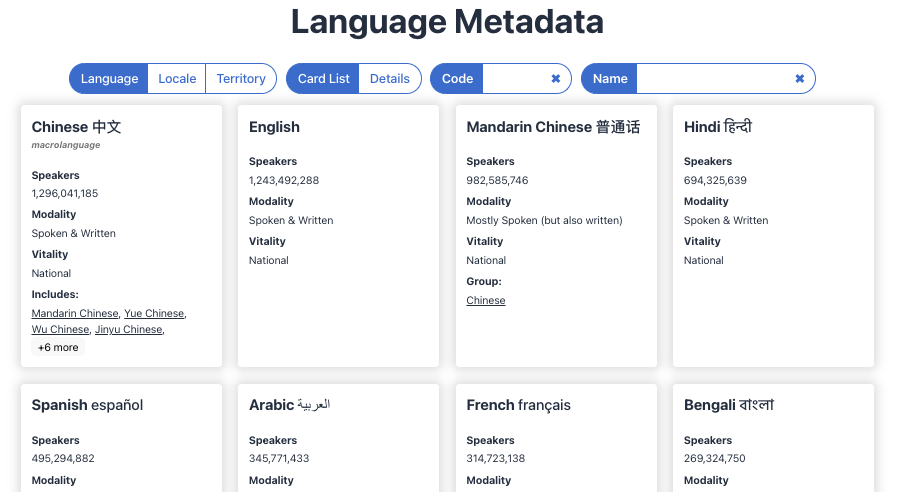
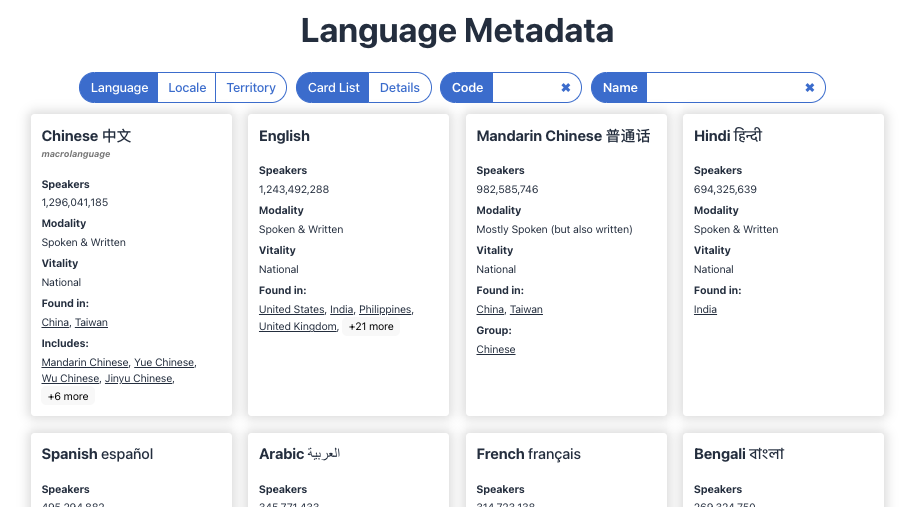
Add locales: part 5: Link to locales from languages & territories

diff --git a/src/views/language/LanguageDetails.tsx b/src/views/language/LanguageDetails.tsx
@@ -3,7 +3,7 @@ import React from 'react';
 import { usePageParams } from '../../controls/PageParamsContext';
 import { useDataContext } from '../../dataloading/DataContext';
 import CommaSeparated from '../../generic/CommaSeparated';
-import { separateTitleAndSubtitle } from '../../utils/stringUtils';
+import HoverableLocaleName from '../locale/HoverableLocaleName';
 
 import HoverableLanguageName from './HoverableLanguageName';
 
@@ -33,7 +33,8 @@ const LanguageDetails: React.FC = () => {
   const {
     glottocode,
     medium,
-    nameDisplay,
+    nameDisplayTitle,
+    nameDisplaySubtitle,
     nameEndonym,
     populationCited,
     script,
@@ -43,14 +44,14 @@ const LanguageDetails: React.FC = () => {
     vitalityEth2025,
     parentLanguage,
     childLanguages,
+    locales,
   } = lang;
-  const [title, subtitle] = separateTitleAndSubtitle(nameDisplay);
 
   return (
     <div className="Details">
       <h2>
-        <strong>{title}</strong> {title != nameEndonym && nameEndonym}
-        {subtitle != null && <div className="subtitle">{subtitle} </div>}
+        <strong>{nameDisplayTitle}</strong> {nameDisplayTitle != nameEndonym && nameEndonym}
+        {nameDisplaySubtitle != null && <div className="subtitle">{nameDisplaySubtitle} </div>}
       </h2>
       <div>
         <h3>Attributes</h3>
@@ -92,6 +93,16 @@ const LanguageDetails: React.FC = () => {
       </div>
       <div>
         <h3>Connections</h3>
+        {locales.length > 0 && (
+          <div>
+            <label>Found in:</label>
+            <CommaSeparated>
+              {Object.values(locales).map((locale) => (
+                <HoverableLocaleName key={locale.code} labelSource="territory" locale={locale} />
+              ))}
+            </CommaSeparated>
+          </div>
+        )}
         {parentLanguage != null && (
           <div>
             <label>Group:</label>
@@ -108,7 +119,7 @@ const LanguageDetails: React.FC = () => {
             </CommaSeparated>
           </div>
         )}
-        {parentLanguage == null && childLanguages.length === 0 && (
+        {locales.length === 0 && parentLanguage == null && childLanguages.length === 0 && (
           <div>There is currently no data available to show connections with other languages.</div>
         )}
       </div>

diff --git a/src/views/language/LanguageCard.tsx b/src/views/language/LanguageCard.tsx
@@ -4,7 +4,7 @@ import { usePageParams } from '../../controls/PageParamsContext';
 import { ViewType } from '../../controls/PageParamTypes';
 import { LanguageData } from '../../DataTypes';
 import CommaSeparated from '../../generic/CommaSeparated';
-import { separateTitleAndSubtitle } from '../../utils/stringUtils';
+import HoverableLocaleName from '../locale/HoverableLocaleName';
 
 import HoverableLanguageName from './HoverableLanguageName';
 
@@ -18,21 +18,22 @@ const LanguageCard: React.FC<Props> = ({ lang, includeRelations }) => {
   const {
     vitalityEth2013,
     medium,
+    nameDisplayTitle,
+    nameDisplaySubtitle,
     populationCited,
-    nameDisplay,
     nameEndonym,
     parentLanguage,
     childLanguages,
+    locales,
   } = lang;
-  const [title, subtitle] = separateTitleAndSubtitle(nameDisplay);
 
   return (
     <div>
       <h3>
         <a onClick={() => updatePageParams({ code: lang.code, viewType: ViewType.Details })}>
-          <strong>{title}</strong> {title != nameEndonym && nameEndonym}
+          <strong>{nameDisplayTitle}</strong> {nameDisplayTitle != nameEndonym && nameEndonym}
         </a>
-        {subtitle != null && <div className="subtitle">{subtitle}</div>}
+        {nameDisplaySubtitle != null && <div className="subtitle">{nameDisplaySubtitle}</div>}
       </h3>
       <div>
         <h4>Speakers</h4>
@@ -47,6 +48,16 @@ const LanguageCard: React.FC<Props> = ({ lang, includeRelations }) => {
         {vitalityEth2013}
       </div>
 
+      {includeRelations && locales.length > 0 && (
+        <div>
+          <h4>Found in:</h4>
+          <CommaSeparated>
+            {Object.values(locales).map((locale) => (
+              <HoverableLocaleName key={locale.code} labelSource="territory" locale={locale} />
+            ))}
+          </CommaSeparated>
+        </div>
+      )}
       {includeRelations && parentLanguage != null && (
         <div>
           <h4>Group:</h4>

diff --git a/src/views/territory/TerritoryCard.tsx b/src/views/territory/TerritoryCard.tsx
@@ -3,6 +3,8 @@ import React from 'react';
 import { usePageParams } from '../../controls/PageParamsContext';
 import { Dimension, ViewType } from '../../controls/PageParamTypes';
 import { TerritoryData } from '../../DataTypes';
+import CommaSeparated from '../../generic/CommaSeparated';
+import HoverableLocaleName from '../locale/HoverableLocaleName';
 
 import HoverableTerritoryName from './HoverableTerritoryName';
 
@@ -11,7 +13,7 @@ interface Props {
 }
 
 const TerritoryCard: React.FC<Props> = ({ territory }) => {
-  const { nameDisplay, population, code, sovereign, territoryType } = territory;
+  const { nameDisplay, population, code, sovereign, territoryType, locales } = territory;
   const { updatePageParams } = usePageParams();
 
   return (
@@ -30,6 +32,17 @@ const TerritoryCard: React.FC<Props> = ({ territory }) => {
         <h4>Population</h4>
         {population.toLocaleString()}
       </div>
+
+      {locales.length > 0 && (
+        <div>
+          <h4>Languages:</h4>
+          <CommaSeparated>
+            {Object.values(locales).map((locale) => (
+              <HoverableLocaleName key={locale.code} labelSource="language" locale={locale} />
+            ))}
+          </CommaSeparated>
+        </div>
+      )}
 
       {sovereign != null && (
         <div>

diff --git a/src/views/territory/TerritoryDetails.tsx b/src/views/territory/TerritoryDetails.tsx
@@ -3,6 +3,7 @@ import React from 'react';
 import { usePageParams } from '../../controls/PageParamsContext';
 import { useDataContext } from '../../dataloading/DataContext';
 import CommaSeparated from '../../generic/CommaSeparated';
+import HoverableLocaleName from '../locale/HoverableLocaleName';
 
 import HoverableTerritoryName from './HoverableTerritoryName';
 
@@ -40,6 +41,7 @@ const TerritoryDetails: React.FC = () => {
     regionContainsTerritories,
     sovereign,
     territoryType,
+    locales,
   } = territory;
 
   return (
@@ -70,6 +72,17 @@ const TerritoryDetails: React.FC = () => {
 
       <div>
         <h3>Connections</h3>
+        {locales.length > 0 && (
+          <div>
+            <label>Languages:</label>
+            <CommaSeparated>
+              {Object.values(locales).map((locale) => (
+                <HoverableLocaleName key={locale.code} labelSource="language" locale={locale} />
+              ))}
+            </CommaSeparated>
+          </div>
+        )}
+
         {parentUNRegion != null && (
           <div>
             <label>In UN region:</label>

diff --git a/src/views/locale/HoverableLocaleName.tsx b/src/views/locale/HoverableLocaleName.tsx
@@ -9,11 +9,27 @@ import LocaleCard from './LocaleCard';
 
 type Props = {
   locale: LocaleData;
+  labelSource?: 'code' | 'territory' | 'language';
   format?: 'text' | 'button';
 };
 
-const HoverableLocaleName: React.FC<Props> = ({ locale, format = 'text' }) => {
+const HoverableLocaleName: React.FC<Props> = ({
+  locale,
+  labelSource = 'code',
+  format = 'text',
+}) => {
   const { updatePageParams } = usePageParams();
+  let label = locale.code;
+  switch (labelSource) {
+    case 'language':
+      label = locale.language?.nameDisplayTitle ?? locale.languageCode;
+      break;
+    case 'territory':
+      label = locale.territory?.nameDisplay ?? locale.territoryCode;
+      break;
+    case 'code':
+    // base case
+  }
 
   return (
     <Hoverable
@@ -26,7 +42,7 @@ const HoverableLocaleName: React.FC<Props> = ({ locale, format = 'text' }) => {
         })
       }
     >
-      {format === 'text' ? locale.code : <button>{locale.code}</button>}
+      {format === 'text' ? label : <button>{label}</button>}
     </Hoverable>
   );
 };

diff --git a/src/views/language/HoverableLanguageName.tsx b/src/views/language/HoverableLanguageName.tsx
@@ -4,7 +4,6 @@ import { usePageParams } from '../../controls/PageParamsContext';
 import { Dimension, ViewType } from '../../controls/PageParamTypes';
 import { LanguageData } from '../../DataTypes';
 import Hoverable from '../../generic/Hoverable';
-import { separateTitleAndSubtitle } from '../../utils/stringUtils';
 
 import LanguageCard from './LanguageCard';
 
@@ -15,8 +14,6 @@ type Props = {
 
 const HoverableLanguageName: React.FC<Props> = ({ lang, format = 'text' }) => {
   const { updatePageParams } = usePageParams();
-  // Remove parentheses from the name (the contains can be seen in the subtitle of the tooltip)
-  const [title] = separateTitleAndSubtitle(lang.nameDisplay);
 
   return (
     <Hoverable
@@ -29,7 +26,7 @@ const HoverableLanguageName: React.FC<Props> = ({ lang, format = 'text' }) => {
         })
       }
     >
-      {format === 'text' ? title : <button>{title}</button>}
+      {format === 'text' ? lang.nameDisplayTitle : <button>{lang.nameDisplayTitle}</button>}
     </Hoverable>
   );
 };

diff --git a/src/views/locale/LocaleStrings.tsx b/src/views/locale/LocaleStrings.tsx
@@ -1,10 +1,7 @@
 import { LocaleData, OfficialStatus, PopulationSourceCategory } from '../../DataTypes';
-import { separateTitleAndSubtitle } from '../../utils/stringUtils';
 
 export function getLocaleName(locale: LocaleData): string {
-  const languageNameFull = locale.language?.nameDisplay ?? locale.languageCode;
-  const [languageName] = separateTitleAndSubtitle(languageNameFull); // throw out subtitles
-
+  const languageName = locale.language?.nameDisplayTitle ?? locale.languageCode;
   const territoryName = locale.territory?.nameDisplay ?? locale.territoryCode;
   const scriptName = locale.explicitScriptCode != '' ? locale.explicitScriptCode : null;
   const variantName = locale.variantTag != '' ? locale.variantTag : null;

diff --git a/src/dataloading/DataParsing.tsx b/src/dataloading/DataParsing.tsx
@@ -6,13 +6,19 @@ import {
   TerritoryData,
   TerritoryType,
 } from '../DataTypes';
+import { separateTitleAndSubtitle } from '../utils/stringUtils';
 
 export function parseLanguageLine(line: string): LanguageData {
   const parts = line.split('\t');
+  const nameDisplay = parts[2];
+  const [nameDisplayTitle, nameDisplaySubtitle] = separateTitleAndSubtitle(nameDisplay);
+
   return {
     code: parts[0],
     glottocode: parts[1],
-    nameDisplay: parts[2],
+    nameDisplay,
+    nameDisplayTitle,
+    nameDisplaySubtitle,
     nameEndonym: parts[3],
     medium: parts[4],
     script: parts[5],

diff --git a/src/DataTypes.tsx b/src/DataTypes.tsx
@@ -17,6 +17,8 @@ export type LanguageData = {
   code: LanguageCode;
   glottocode: Glottocode;
   nameDisplay: string;
+  nameDisplayTitle: string;
+  nameDisplaySubtitle: string | null;
   nameEndonym: string;
   medium: string;
   script: string;

diff --git a/README.md b/README.md
@@ -20,7 +20,7 @@ Here's a list of planned functionality. Completed functions are checked off.
     - [ ] Glottolog
     - [ ] Digital Support details
   - [x] Territories
-  - [ ] Locales (languages + territories + potentially other specificity) -- in progress
+  - [x] Locales (languages + territories + potentially other specificity)
   - [ ] Writing Systems
   - [ ] Language Variants / IANA tags
 - [ ] Views
